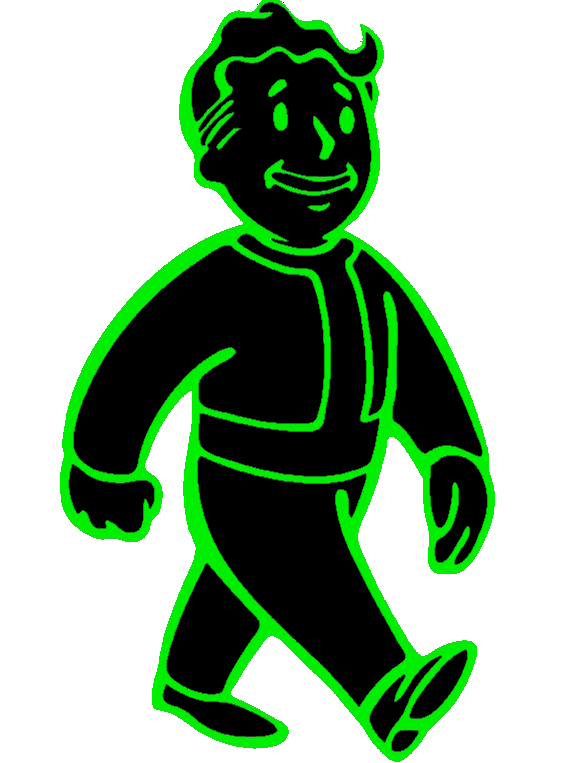
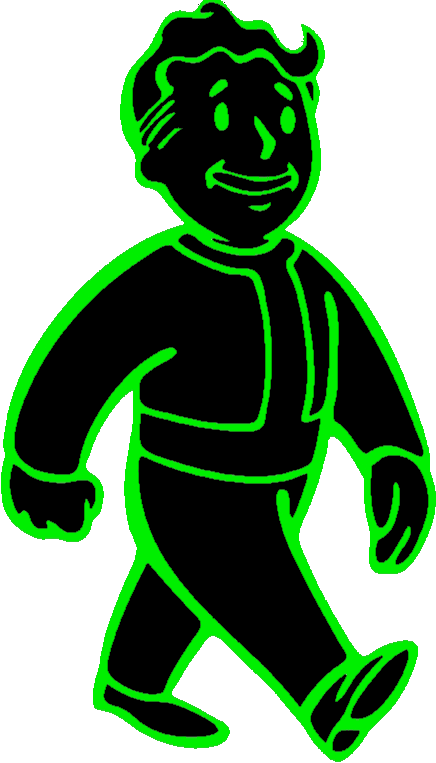
Hovering over a stat gives you a description

diff --git a/src/components/create/Create.jsx b/src/components/create/Create.jsx
@@ -11,23 +11,29 @@ function Create() {
     const [agi, setAgi] = useState(1)
     const [luc, setLuc] = useState(1)
 
-    /*
-        "Endurance" : end,
-        "Charisma" : cha,
-        "Intelligence" : int,
-        "Agility" : agi,
-        "Luck" : luc
-    */
     let statList = [
-        ["Strength", str],
-        ["Perception", per],
-        ["Endurance", end],
-        ["Charisma", cha],
-        ["Intelligence", int],
-        ["Agility", agi],
-        ["Luck", luc]
-
+        ["Strength", str, "Strength is a measure of your raw physical power. It affects how much you can carry, the power of all melee attacks, and your effectiveness with many heavy weapons."],
+        ["Perception", per, "A high Perception grants a bonus to the Explosives, Lockpick and Energy Weapons, and determines when red compass markings appear (which indicate threats)."],
+        ["Endurance", end, "Endurance is a measure of your overall physical fitness. A high Endurance gives bonuses to health, environmental resistances, and the Survival and Unarmed skills."],
+        ["Charisma", cha, "Having a high Charisma will improve people's disposition towards you, and give bonuses to both the Barter and Speech skills."],
+        ["Intelligence", int,"Intelligence affects the Science, Repair and Medicine skills. The higher your Intelligence, the more Skill Points you'll be able to distribute when you level up."],
+        ["Agility", agi, "Agility affects your Guns and Sneak skills, and the number of Action Points available for V.A.T.S."],
+        ["Luck", luc, "Raising your luck will raise all of your skills a little. Having a high Luck will also improve your critical chance with all weapons."]
     ]
+
+    const [desc, setDesc] = useState(null)
+
+    const [isHover, setIsHover] = useState(false)
+
+    const handleMouseEnter = (stat) => {
+        setIsHover(true)
+        setDesc(stat[2])
+    }
+
+    const handleMouseLeave = () => {
+        setIsHover(false)
+        setDesc(null)
+    }
 
     return (
         <>
@@ -48,13 +54,14 @@ function Create() {
 
                     {statList.map((stat, index) => 
                         
-                        <div key={index} className={createCSS.button}>
+                        <div key={index} className={createCSS.button} onMouseEnter={() => handleMouseEnter(stat)} onMouseLeave={handleMouseLeave}>
                             {stat[0]}
                             <div className={createCSS.number}>{stat[1]}</div>
                         </div>
                     )}
                     
                     </div>
+                    <div className={createCSS.desc} style={{ opacity: isHover ? 1 : 0 }}>{desc}</div>
                     <img className={createCSS.boy} src="vault-boy-2.png"/>
                 </div>
             </div>

diff --git a/src/components/create/Create.module.css b/src/components/create/Create.module.css
@@ -16,7 +16,8 @@ div p {
 }
 
 .boy {
-    width: 225px;
+    width: 200px;
+    height: auto;
     margin: 0;
 }
 
@@ -29,12 +30,17 @@ div p {
     font-size: large;
     margin: 0;
     cursor: default;
-    padding-top: 5px;
-    padding-bottom: 5px;
+    padding: 5px;
+    margin: 2px;
     text-align: left;
     display: flex;
     flex-direction: row;
     justify-content: space-between;
+    border: 1px solid transparent;
+}
+
+.button:hover {
+    border: 1px solid #00ee00;
 }
 
 .btnContainer {
@@ -45,9 +51,14 @@ div p {
 
 .stats {
     display: flex;
-    justify-content: space-around;
+    text-align: center;
+    justify-content: space-between;
 }
 
 .number {
     margin-left: 20px;
+}
+
+.desc {
+    text-align: center;
 }
